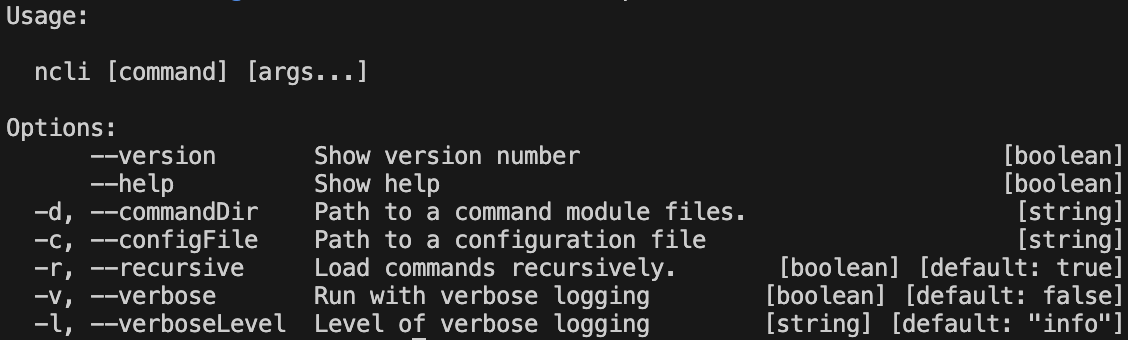
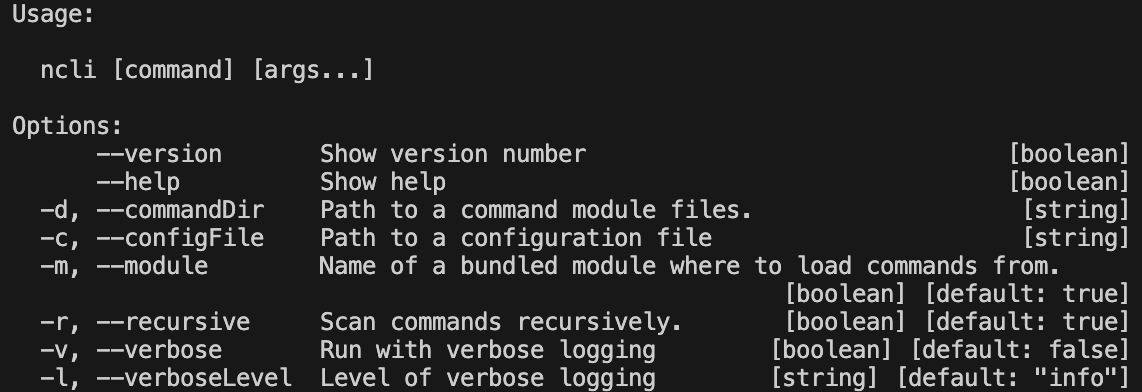
RC 0.5.0, minor fixes, documentation, external module commands config

diff --git a/src/engine.ts b/src/engine.ts
@@ -6,7 +6,8 @@ import { hideBin } from "yargs/helpers";
 
 import { Console, ConsoleSettings } from "./console";
 import Logger, { logger } from "./logger";
-import { Command } from "./command";
+import{ fileURLToPath } from "url" 
+import { dirname } from 'path';
 
 export class Engine implements Console {
     
@@ -17,9 +18,12 @@ export class Engine implements Console {
     );
 
     private _defaults: ConsoleSettings = {
+        bundleDir: "dist",
         configFile: undefined,
         commandDir: "commands",
+        commandName: "ncli",
         demandCommandArguments: 0,
+        module: undefined,
         recursive: true,
         verbose: false,
         verboseLevel: "info"
@@ -38,10 +42,16 @@ export class Engine implements Console {
             description: "Path to a configuration file",
             default: undefined
         },
+        "module": {
+            alias: "m",
+            type: "boolean",
+            description: "Name of a bundled module where to load commands from.",
+            default: true
+        },
         "recursive": {
             alias: "r",
             type: "boolean",
-            description: "Load commands recursively.",
+            description: "Scan commands recursively.",
             default: true
         },
         "verbose": {
@@ -81,9 +91,10 @@ export class Engine implements Console {
     }
 
     protected globalOption(key: string, fallback?: any): any {
-        return this._optionSettings[key.replace(/^\-\-?(.*)$/, "$1")] ||  (
+        const normalizedKey = key.replace(/^\-\-?(.*)$/, "$1")
+        return this._optionSettings[normalizedKey] ||  (
             fallback || (
-                this._globalOptions[key.replace(/^\-\-?(.*)$/, "$1")]?.default || undefined
+                this._globalOptions[normalizedKey]?.default || undefined
             )
         );
     }
@@ -128,11 +139,11 @@ export class Engine implements Console {
             `Commands loaded to NCLI engine...`
         );
 
-        // Configure and excute YARGS instance parse handler
+        // Configure and excute YARGS instance parse
         this._args.command(commands)
             .demandCommand(this.settings.demandCommandArguments)
-            .scriptName("ncli")
             .usage("Usage:\n\n  $0 [command] [args...]")
+            .scriptName(this.settings.commandName)
             .help()
             .options(this._globalOptions)
             .parse();
@@ -195,21 +206,42 @@ export class Engine implements Console {
     }
 
     private loadCommandModules(dir: string): string[] {
-        let mask = `${dir}/*`;
-        if (this.settings.recursive) {
-            mask = `${dir}/**`;
-        }
+        const mask = (this.settings.recursive) ? `${dir}/**` : `${dir}/*`;
 
         this.isVerboseMode() && this.logger.info(
-            `Loading command modules from "${path.resolve(`./${mask}`)}"...`
+            `Loading local command modules from "${path.resolve(`./${mask}`)}"...`
         );
 
-        return globSync(
+        const local = globSync(
             path.resolve(`./${mask}`), {
                 absolute: false,
                 nodir: true,
             }
-        ).filter(
+        );
+
+        let bundled: any = [];
+
+        if (this.settings.bundleName !== undefined) {
+            const binaryPath = dirname(fileURLToPath(import.meta.url));
+
+            const bundlePath = (binaryPath.includes("node_modules")) 
+                ? `node_modules/${this.settings.module}/${this.settings.bundleDir}`
+                : `${binaryPath}/${this.settings.bundleDir}`;
+
+            this.isVerboseMode() && this.logger.info(
+                `Loading bundled command modules from "${path.resolve(bundlePath, `./${mask}`)}"...`
+            );
+
+            bundled = globSync(
+                path.resolve(bundlePath, `./${mask}`), {
+                    absolute: false,
+                    nodir: true,
+                }
+            );
+        }
+        
+        // Load bundle first to allow user to override bundled commands
+        return [...bundled, ...local].filter(
             (module: string) => module.split(".")[module.split(".").length - 1] === "js"
         ).map(
             (module: string) => module.split(".").slice(0, -1).join(".")

diff --git a/src/console.ts b/src/console.ts
@@ -3,9 +3,12 @@ export interface Console {
 }
 
 export interface ConsoleSettings {
+    bundleDir?: string;
     configFile?: string;
     commandDir?: string;
+    commandName?: string;
     demandCommandArguments?: number;
+    module?: string;
     recursive?: boolean;
     verbose?: boolean;  
     verboseLevel?: string;

diff --git a/README.md b/README.md
@@ -3,7 +3,7 @@
 ![NPM Version](https://img.shields.io/npm/v/@mrlm.net/node-cli)
 ![GitHub License](https://img.shields.io/github/license/mrlm-net/node-cli)
 
-> This package is BETA release and API might sligthly change!
+> This package is in BETA release and API might sligthly change in the future, but since version `0.5.0` you can start using it with this remark in the mind!
 
 Simple Node.js CLI application abstract framework to make console apps blazing fast with zero cofig and small efforts!
 
@@ -87,18 +87,7 @@ You can also create a infinite subfolder structure and if the `recursive` settin
 
 Each module needs to export several properties, but only two of them are mandatory to make command complient to be registred and excuted. Mandatory is `command` property with string value of the command name, second is a function property called `handler` where input is one argument described by `HandlerInputSettings` interface.
 
-#### HandlerInputParameters interface
-
-```typescript
-export interface HandlerInputParameters {
-    logger: Logger;
-    settings: ConsoleSettings;   
-    isVerboseMode: boolean;
-    yargs: yargs.Argv;
-}
-```
-
-#### Command example
+#### Command interface
 
 ```typescript
 export interface Command {
@@ -111,7 +100,6 @@ export interface Command {
 }
 ```
 
-
 __Command Types__
 
 ```typescript
@@ -121,6 +109,30 @@ export type Description = string;
 export type Deprecated = boolean;
 export type Handler = (params: HandlerInputParameters) => void;
 export type Name  = string;
+```
+
+#### HandlerInputParameters interface
+
+```typescript
+export interface HandlerInputParameters {
+    logger: Logger;
+    settings: ConsoleSettings;   
+    isVerboseMode: boolean;
+    yargs: yargs.Argv;
+}
+```
+
+### Command Example
+
+```javascript
+export const command = "command [args..]"
+
+export const handler = function(engine) {
+    // Log message in verbose mode only
+    engine.isVerboseMode && engine.logger.info("Command executed!")
+    // Log message in all modes
+    engine.logger.debug("Command executed!")
+}
 ```
 
 > More examples can be found [here](/docs/examples.md).
@@ -133,11 +145,14 @@ Custom configuration of CLI engine is possible via three independent way and the
 
 ```typescript
 export interface ConsoleSettings {
+    bundleDir?: string;
     configFile?: string;
     commandDir?: string;
+    commandName?: string;
     demandCommandArguments?: number;
+    module?: string;
     recursive?: boolean;
-    verbose?: boolean;
+    verbose?: boolean;  
     verboseLevel?: string;
 }
 ```
@@ -145,11 +160,14 @@ export interface ConsoleSettings {
 
 | Configuration key | Type | Flag | Default | Description |
 | :-- | :--: | :--: | :--: | :-- |
+| `bundleDir` | `string` | - | `dist` | Directory of the bundle files |
 | `configFile` | `string` | `-c` `--configFile` | `undefined` | Path to CLI tool and commands configuration file. |
 | `commandDir` | `string` | `-d` `--commandDir` | `commands`  | Path to directory where command module files are places. |
+| `commandName` | `string` | - | `ncli` | Name of the main command binary file to be displayed in the help dialog |
 | `demandCommandArguments` | - | `number` | `0` | Number of how many commands should be required in user inputs. |
+| `module` | `string` | `-m` `--module` | `undefined` | Name of the node module package where to load commands from. |
 | `recursive` | `boolean` | `-r` `--recursive` | `true` | If the lookup for the command modules should be recursive or not. |
 | `verbose` | `boolean` | `-v` `--verbose` | `false` | Turn on or off logger verbose mode. This could be used also inside command handler function as it is part of [`HandlerInputParameters`](#handlerinputparameters-interface) interface. |
 | `verboseLevel` | `string` | `-l` `--verboseLevel` | `info` | Level of the logger messages to be displayed, this configuration is independent from verbose flag. Be aware that even verbose is set to false command messages could appear if they are not tested for verbose configuration state before, for that you can use `isVerboseMode` property from `HandlerInputParameters` interface. |
 
-> 2024 &copy; Martin Hrášek - MRLM.NET
+_2024 &copy; Martin Hrášek - MRLM.NET_
